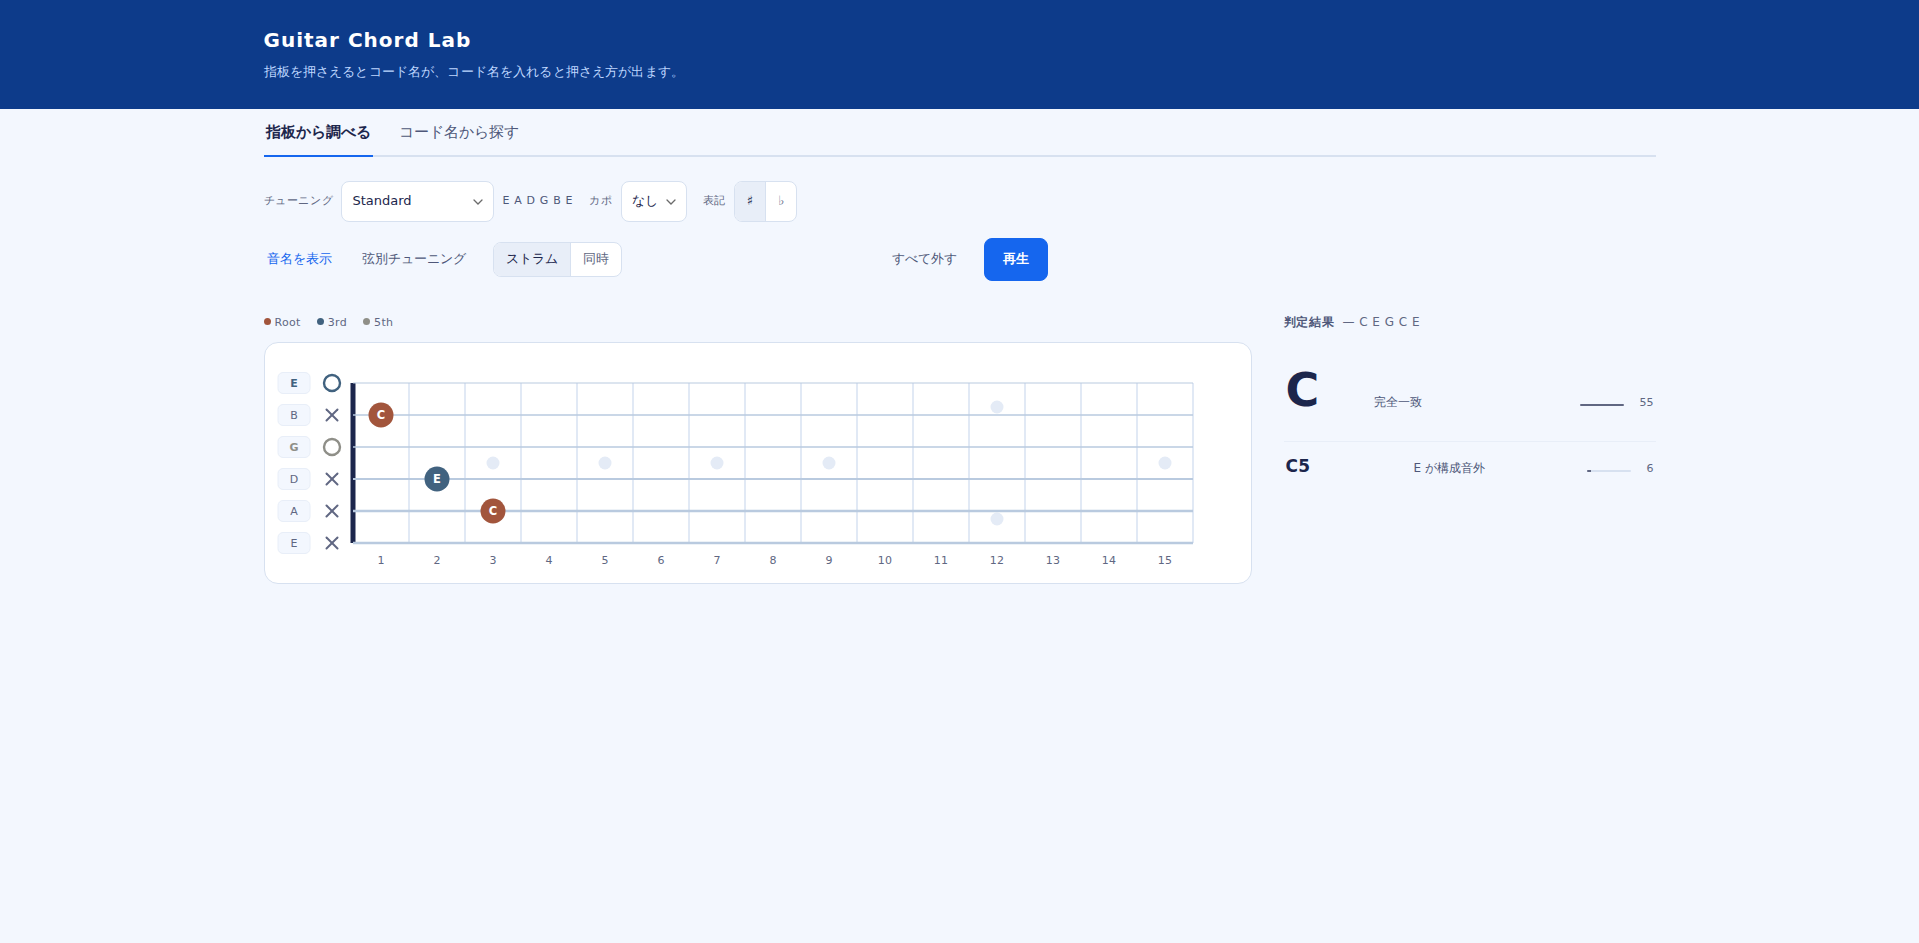
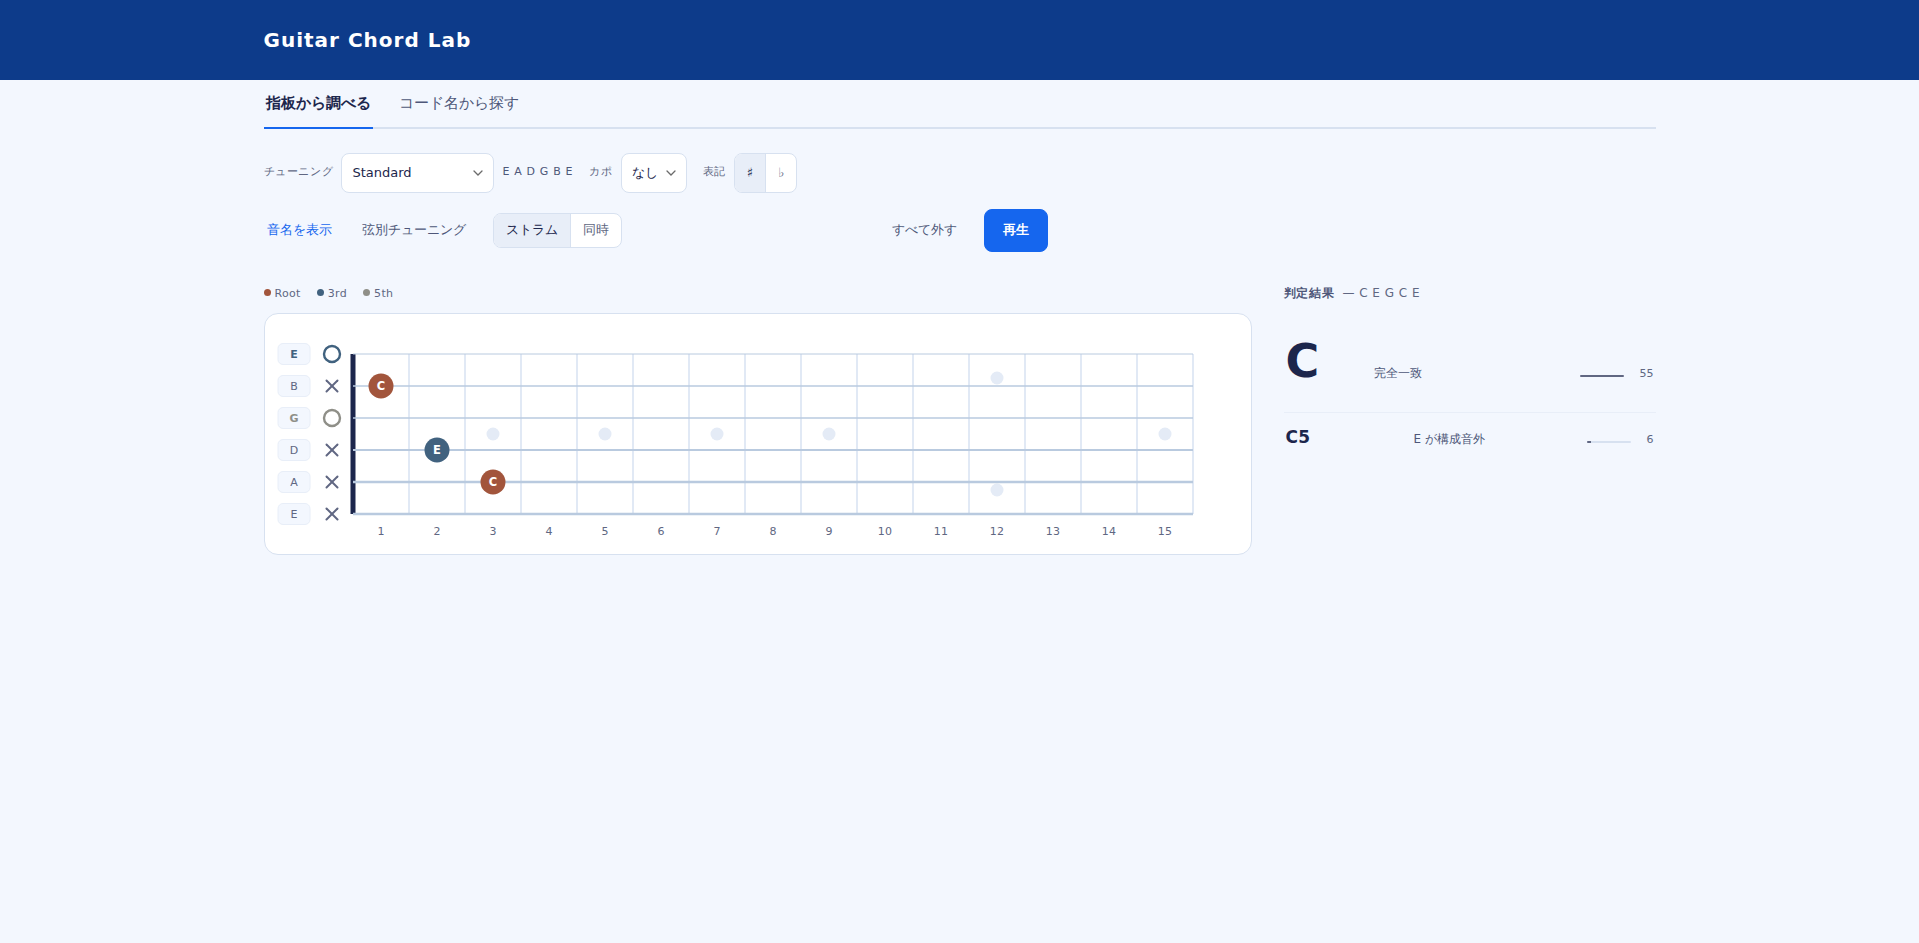
frontend-design スキルの型に照らして、重複した説明文と角丸の食い違いを直す
入れたスキルが挙げる「AIが作ったと分かる型」で index.html を実測した。
8つは該当なしだった（クリーム地＋テラコッタ、ほぼ黒＋アシッド、
新聞レイアウト、box-shadow、グラデーション、全大文字ラベル、
等幅の小ラベル、連番マーカー 01/02、見出しの1語だけ着色、
ほぼ黒の色味付き #0B0B0B）。実害は3つ。

1. 説明文がタブと同じことを言っていた

   帯の中  「指板を押さえるとコード名が、コード名を入れると押さえ方が出ます。」
   32px下  「指板から調べる」「コード名から探す」

   同じ情報が2箇所（憲法 §4 違反）で、スキルの
   「内容の上に不要な文字ラベルを足さない」にも当たる。説明文を外した。
   帯は 109px → 80px（モバイルは 141px → 88px）、指板が
   y=342 → 313（モバイルは 478 → 424）に上がる。モバイルの初期表示で
   見えるフレットが5本から7本に増える。

2. 角丸が憲法 §3 の「2段だけ」と食い違っていた

   :focus-visible が border-radius:3px を持っていた。--r が 6px
   だった頃の名残で、どの段でもない3つ目の値だった。

3. フォーカスリングの角丸がセレクタで打ち消し合っていた

   3px を --r に替えて調べたら、.tab / .seg button / .res / #sug button
   が後から border-radius:0 を当てて打ち消していた。よく見ると
   :focus-visible で角丸を指定すること自体が誤りで、四角い要素に
   丸いリングを被せていた。outline は要素自身の角丸に従うので、
   指定を外した。これで8種類すべてでリングが要素の形に一致する。

高さ2pxの帯（.conf、input[type=range]）の border-radius:1px は
残した。高さの半分なので3段目ではなく「円」の側で、--r を当てると
帯が潰れる。§3 に例外として明記した。

件数の「872件 ↓」と下部バーの「他1件 ▲」は残した。スキルは
「リンク文字に → を付ける」を型として挙げているが、この2つは
移動先の方向という文字では言えない情報を持っている。

Claude-Session: https://claude.ai/code/session_01DuFfgd9j3xgMUA9ygk4He2

diff --git a/index.html b/index.html
@@ -100,11 +100,6 @@ h1{
   font-size:20px;font-weight:700;color:var(--tx-1);
   margin:0;letter-spacing:.02em;line-height:1.6;
 }
-.lede{
-  margin:var(--s2) 0 0;font-size:13px;color:var(--tx-3);
-  text-wrap:pretty;word-break:auto-phrase;
-  line-height:1.9;max-width:34em;
-}
 .seclabel{
   font-size:12px;font-weight:700;color:var(--tx-3);
   margin:0 0 var(--s4);letter-spacing:.06em;line-height:1.6;
@@ -116,7 +111,6 @@ h1{
    has a fixed home and does not have to be sprinkled through the interface. */
 .head{background:var(--blue-deep);padding:var(--s5) 0}
 .head h1{color:#fff;font-size:20px;font-weight:700;letter-spacing:.05em}
-.head .lede{color:#BFD7FF;margin-top:var(--s1)}
 .sec{padding:var(--s7) 0 0;margin-top:var(--s7);border-top:1px solid var(--line)}
 
 /* ---- form controls: hand-built, no library defaults ------------------ */
@@ -171,7 +165,10 @@ button{
 .ctlrow:not(.sub) .seg button{padding:9px 12px}
 .seg button.on{color:var(--tx-1);background:var(--line-soft)}
 
-:focus-visible{outline:1px solid var(--accent);outline-offset:2px;border-radius:3px}
+/* the ring follows each element's own radius: outline does that by itself.
+   forcing a radius here fought .tab / .seg button / .res, which are square
+   on purpose, and put a rounded ring on a square thing. */
+:focus-visible{outline:1px solid var(--accent);outline-offset:2px}
 
 /* ---- tabs ------------------------------------------------------------
    the two ways in. both labels stay visible at all times; only the panel
@@ -265,6 +262,7 @@ button{
 .res .shape{display:block;font-size:11px;font-weight:400;color:var(--tx-4);font-weight:400;letter-spacing:.02em}
 .res .why{font-size:12px;color:var(--tx-3);flex:1;line-height:1.8}
 .res .sc{font-size:11px;color:var(--tx-4);font-variant-numeric:tabular-nums}
+/* 1px on a 2px-tall bar is half its height: the "円は50%" case, not a third radius */
 .conf{height:2px;width:44px;background:var(--line);border-radius:1px;overflow:hidden;flex-shrink:0}
 .conf i{display:block;height:100%;background:var(--tx-4)}
 .empty{color:var(--tx-4);font-size:12px;padding:var(--s3) 2px;line-height:1.9}
@@ -402,7 +400,6 @@ input[type=range]::-moz-range-thumb{
 <header class="head">
   <div class="shell">
     <h1>Guitar Chord Lab</h1>
-    <p class="lede">指板を押さえるとコード名が、コード名を入れると押さえ方が出ます。</p>
   </div>
 </header>
 

diff --git a/CLAUDE.md b/CLAUDE.md
@@ -150,6 +150,9 @@
 ### 角丸・影・動き
 
 - 角丸は `--r`（8px、部品）と `--r-lg`（14px、面）の**2段だけ**。円は `50%`。
+  高さ2pxの帯（`.conf`、`input[type=range]`）だけ `1px` を許す——
+  これは高さの半分であって、3段目ではなく「円」の側
+  （`--r` を当てると帯が潰れる）。**それ以外を発明しない。**
   **ピル形（`999px`）は使わない**——SaaS 風のタグに寄るため
 - **影は使わない。浮いている要素も境界線で表現する。**
   `#sug`（サジェスト）も `#mini`（下部バー）も `.tunepop`（ナットの
